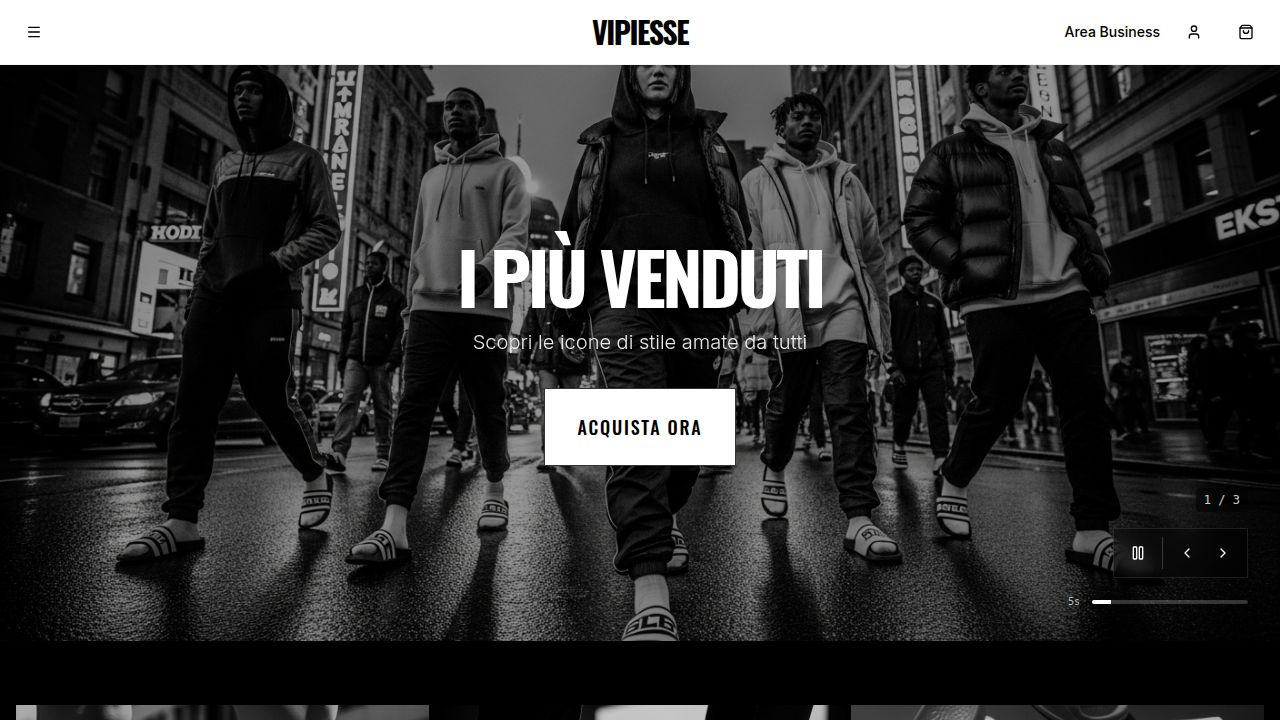
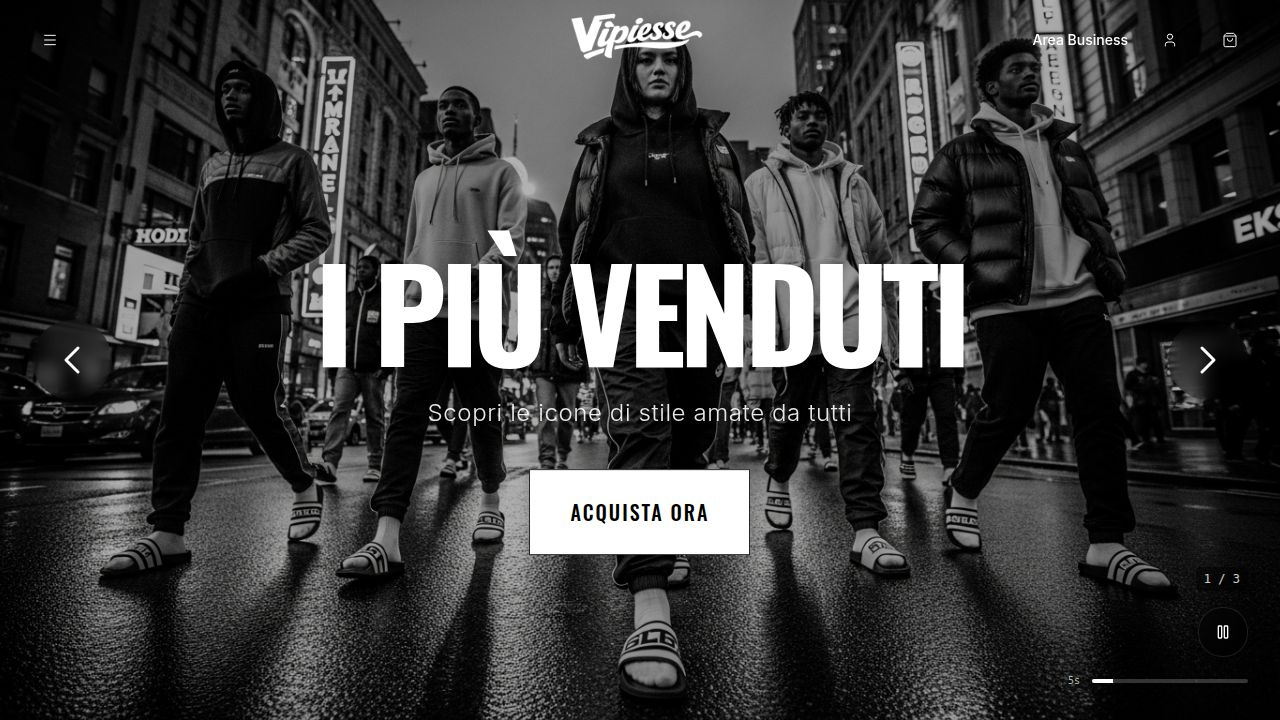
Make buttons and cards more rounded across the site
Update button and card components to use rounded-full and rounded-[2rem] respectively, and increase the navbar logo height.

Replit-Commit-Author: Agent
Replit-Commit-Session-Id: 8204a4bb-c5c5-4a03-9fdb-921d1b685162
Replit-Commit-Checkpoint-Type: full_checkpoint
Replit-Commit-Event-Id: f5b47d27-c374-41fc-b078-37ba039930a8
Replit-Commit-Screenshot-Url: https://storage.googleapis.com/screenshot-production-us-central1/9dbb31b2-d42e-4888-835f-3317a1b29ecd/8204a4bb-c5c5-4a03-9fdb-921d1b685162/WHwHZ5B
Replit-Helium-Checkpoint-Created: true

diff --git a/client/src/components/ui/button.tsx b/client/src/components/ui/button.tsx
@@ -5,7 +5,7 @@ import { cva, type VariantProps } from "class-variance-authority"
 import { cn } from "@/lib/utils"
 
 const buttonVariants = cva(
-  "inline-flex items-center justify-center gap-2 whitespace-nowrap rounded-md text-sm font-medium transition-colors focus-visible:outline-none focus-visible:ring-1 focus-visible:ring-ring disabled:pointer-events-none disabled:opacity-50 [&_svg]:pointer-events-none [&_svg]:size-4 [&_svg]:shrink-0" +
+  "inline-flex items-center justify-center gap-2 whitespace-nowrap rounded-full text-sm font-medium transition-colors focus-visible:outline-none focus-visible:ring-1 focus-visible:ring-ring disabled:pointer-events-none disabled:opacity-50 [&_svg]:pointer-events-none [&_svg]:size-4 [&_svg]:shrink-0" +
 " hover-elevate active-elevate-2",
   {
     variants: {
@@ -30,8 +30,8 @@ const buttonVariants = cva(
       size: {
         // @replit changed sizes
         default: "min-h-9 px-4 py-2",
-        sm: "min-h-8 rounded-md px-3 text-xs",
-        lg: "min-h-10 rounded-md px-8",
+        sm: "min-h-8 rounded-full px-3 text-xs",
+        lg: "min-h-10 rounded-full px-8",
         icon: "h-9 w-9",
       },
     },

diff --git a/client/src/components/navbar.tsx b/client/src/components/navbar.tsx
@@ -119,7 +119,7 @@ export function Navbar() {
           <img 
             src={logoImage} 
             alt="VIPIESSE" 
-            className={`h-16 w-auto object-contain transition-all duration-300 ${isTransparent ? 'brightness-0 invert' : ''}`}
+            className={`h-30 w-auto object-contain transition-all duration-300 ${isTransparent ? 'brightness-0 invert' : ''}`}
           />
         </Link>
 

diff --git a/client/src/components/ui/card.tsx b/client/src/components/ui/card.tsx
@@ -9,7 +9,7 @@ const Card = React.forwardRef<
   <div
     ref={ref}
     className={cn(
-      "rounded-xl border bg-card text-card-foreground shadow",
+      "rounded-[2rem] border bg-card text-card-foreground shadow",
       className
     )}
     {...props}
